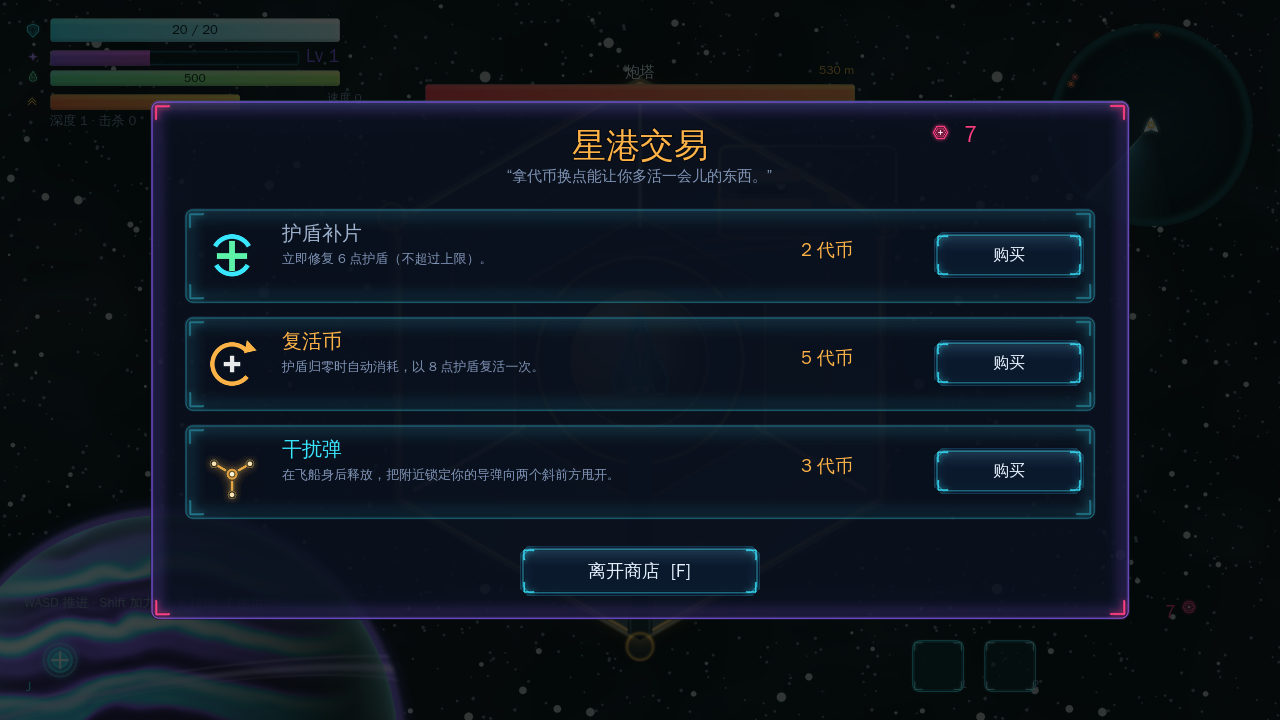
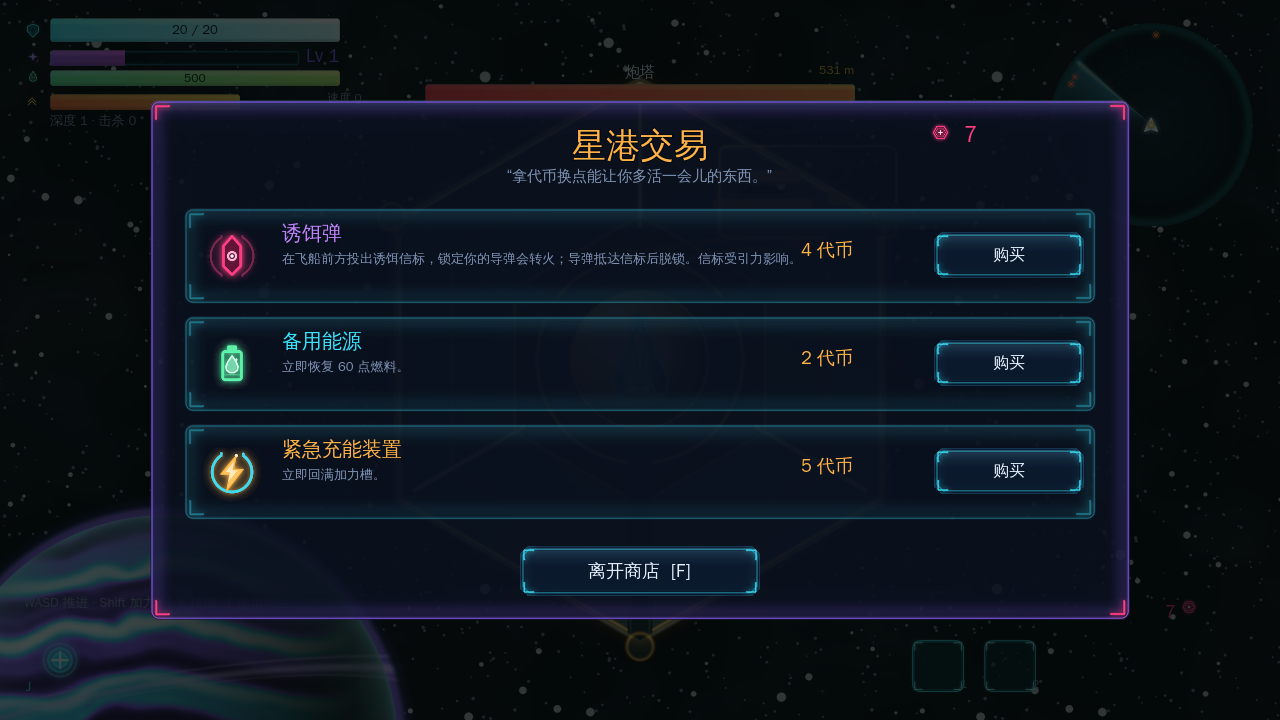
docs(1.2.0): 记录升级池修正并重跑 181 项自测与截图
- README 1.2.0 更新日志补充两处升级池修正
- DESIGN_MAP 升级池行说明零权重卡不进卡池、扩建只看栏位上限
- AGENTS 增加“升级池只出有效卡”不变量，自测数 177 -> 181
- QA 更新日期与计数，重导出 Linux/Windows 并重生成截图
- docs/selftest_output.txt 与 12 张截图来自新导出包

diff --git a/docs/QA.md b/docs/QA.md
@@ -1,6 +1,6 @@
 # QA / 验证记录
 
-日期：2026-11-18 · 版本：1.2.0 · 引擎：Godot 4.7.2 stable
+日期：2026-11-21 · 版本：1.2.0 · 引擎：Godot 4.7.2 stable
 环境：Linux x86_64 · Godot headless + Xvfb/llvmpipe · JDK 17 (Temurin 17.0.21) · Android SDK build-tools 35 / platform 35
 
 ---
@@ -11,17 +11,17 @@
 godot --headless --path . -- --selftest
 ```
 
-完整输出：`docs/selftest_output.txt`（177 项断言 + 机器人明细）。
+完整输出：`docs/selftest_output.txt`（181 项断言 + 机器人明细）。
 
 ```
-RESULT: 177 checks, 0 failed
+RESULT: 181 checks, 0 failed
 ```
 
 **导出包内自测**（同一套脚本，从内嵌 PCK 运行）：
 
 ```bash
 ./build/linux/EscapeGravity.x86_64 --headless -- --selftest
-# RESULT: 177 checks, 0 failed
+# RESULT: 181 checks, 0 failed
 ```
 
 覆盖面：
@@ -38,7 +38,7 @@ RESULT: 177 checks, 0 failed
 - 修整区刷新（`_test_rest_zone_refresh`，1.1.0 新增 14 项断言）：敌前没有修整区 / 空场 30s 不会有倒计时刷新 / 击杀后安全区与商店**立即**刷新且互不重叠 / 离开安全区不启动倒计时、离开 20s 仍无 / 商店内击杀挂起并在离开时补刷 / 安全区内击杀挂起并在离开时补刷
 - 商店绑定：每次击败敌人都会把商店立即刷新到下一段路线商店点（游标至少推进到当前深度）并绑定新深度，不再有 26s 重开与“跨过所属敌人”的单独重定位
 - 发现：敌人未进屏前不可见、不进雷达/方位/血条、仇恨范围外不开火；玩家进入 2100px 后主动逼近并持续开火；未发现时导弹从屏幕外生成、以切线弧线切入、方向 72% 偏向敌人 ±57°，偷袭弹单独上限 2 且不占直射名额；进屏同一帧 `discovered` 并淡入
-- 物品/升级：2 格、满栏销毁、5 格上限后无栏位卡、技能满后无新技能卡；游玩中升级只累积 `pending_levels`、不弹面板，进入安全区才开面板，停靠期间新攒的等级立即补开
+- 物品/升级：2 格、满栏销毁、5 格上限后无栏位卡、技能满后无新技能卡；游玩中升级只累积 `pending_levels`、不弹面板，进入安全区才开面板，停靠期间新攒的等级立即补开；安全区进站即补满燃料，满油时不再出燃料卡（权重 0），燃料不足时仍出；物品栏扩建只看栏位是否还能扩——2 格背包装满时同样能抽到，背包没满也能抽到
 - 撞击：撞敌人为同速天体的 1.5 倍、伤害随速度升高、撞敌人与撞天体单次都封顶 5、法线速度低于 40 不掉护盾
 - 技能：脉冲 10 燃料 / 200 冲量 / 脱锁 / 5s CD / 按移动方向左右偏转（静止按面向）；诱饵抵达脱锁；干扰弹偏转
 - 自杀无人机（`_test_drones`，1.2.0 新增 23 项断言）：成对刷新、屏幕外入场、锁定额度 6、满额停刷、速度 460 + 低转向率、视野内有安全区/商店时停刷、撞玩家 5 伤害并当场解体、近身掠过后被甩开且永久脱锁、脱锁不占锁定名额、5 秒锁定上限、撞敌人 5 伤害后解体、安全区驱离圈推开、贴本体解体、脉冲原地解体、刷新计时器接线
@@ -68,7 +68,7 @@ RESULT: 177 checks, 0 failed
 
 ## 2. 导出包验证
 
-> 本次 **1.2.0** 重跑了源码自测（177/177），重新导出 Linux 与 Windows 可执行文件（Linux 包内自测通过、重新生成截图）；
+> **1.2.0**（2026-11-18 首验，2026-11-21 修复升级池后重跑）：源码自测 181/181，重新导出 Linux 与 Windows 可执行文件（Linux 包内自测通过、重新生成截图）；
 > **dist 发行包与 Android 包未重建、未上传**（下方 Android 记录为 1.0.9 实测；Windows 段同时列出 1.2.0 本地导出验证与 1.0.9 发行包记录）。
 
 ### 2.1 Linux（验证打包完整性）
@@ -80,7 +80,7 @@ xvfb-run -a -s "-screen 0 1280x720x24" \
 
 - 1.2.0 源码重新导出后在 Xvfb + llvmpipe 下真实运行，退出码 0；11 张截图全部重新生成（**由导出包运行产生，不是编辑器**），已复制到 `docs/shots/`。战斗截图额外摆出两架紫/品红自杀无人机，便于核对新敌人与橙红导弹的颜色区分及雷达点。
 - 标题、中文字体、贴图、音频、脚本均从内嵌 PCK 加载；无缺失贴图警告。
-- `build/linux/EscapeGravity.x86_64` = 96,370,352 bytes，ELF x86-64（1.2.0 导出）。
+- `build/linux/EscapeGravity.x86_64` = 96,370,960 bytes，ELF x86-64（1.2.0 导出）。
 - 触屏 20:9 截图另用 `--resolution 2400x1080 -- --touch --shots=...` 生成，取 `04_battle` 作为 `docs/shots/12_touch.png`。
 
 ### 2.2 Windows（1.2.0 本地导出验证；1.0.9 发行包记录）
@@ -93,7 +93,7 @@ file build/windows/EscapeGravity.exe
 python3 -c "d=open(...).read(); print(b'GDPC' in d[-4096:])"   # True
 ```
 
-- 1.2.0 本地导出：132,054,400 bytes，PE32+ x86-64，尾部 `GDPC` 校验通过；单文件、内嵌 PCK，无外部依赖。
+- 1.2.0 本地导出：132,055,008 bytes，PE32+ x86-64，尾部 `GDPC` 校验通过；单文件、内嵌 PCK，无外部依赖。
 - 1.0.9 发行包：132,039,856 bytes。
 - 未做商业代码签名（没有证书），首次运行会有 SmartScreen 提示。
 

diff --git a/AGENTS.md b/AGENTS.md
@@ -112,6 +112,7 @@ escape-gravity-release/
 - **环绕加速**：`BODY_GRAVITY_RANGE=3`（原 2）；`assist_accel` 在贴体 320px 内沿切线加速，速度 600 处淡出；离开引力圈后速度保留。安全区停靠反推上限 `SHIP_SAFE_BRAKE=1400`，以 600~720 进站要能在 R280 内停住；只有明确朝圈外推进时才放手。
 - **天体与内容双向避让**：新天体落点用 `Galaxy.body_fits()` 检查已加载天体、当前飞船、安全区/商店/敌人和**全部路线预置节点**；安全区/商店/敌人刷新用 `_clear_body_point()` 的 18 圈 × 24 方向环形搜索，安全区按完整 R280、敌人按外壳、天体按表面 + `BODY_CONTENT_MARGIN=160` 留白。别再把 `_clear_body_point` 的 clearance 传成 90/120。
 - **升级只在安全区结算**：`on_matter_collected` 打满经验只累加 `pending_levels` 并提示“待升级 ×N”，**不要**在游玩中调用 `begin_levelup`；`_enter_safe` 里才把攒下的次数逐张弹出。停靠期间继续吸物质攒出的新等级也应立刻弹面板。
+- **升级池只出有效卡**：`Defs.roll_upgrades` 里权重 ≤0 的卡一律不进卡池（满油时的 `fuel_25`、5 格后的 `slot`、技能满后的 `skill_new`）。`fuel_25` 的权重按“进站已补满燃料”这个前提判断——满油给 0，只有安全区停留期间又烧掉燃料才给 12；`slot` 的条件是 `item_slots < ITEM_SLOTS_MAX`（不是 `inventory.size() < item_slots`，那样背包一满就永远刷不出扩建），背包满时权重 10、未满 6。
 - **撞击伤害按速度**：`_resolve_collisions` 用 `ship.bounce_from()` 返回的法线冲击速度，经 `collision_damage()` 把 40~380 px/s 映射到 **0.5~5**；撞敌人 ×1.5，撞敌人与撞天体的最终值都封顶 **5**。擦边（法线速度 <40）不掉血。别退回固定 3~7 的 remap。
 - **自杀无人机（1.2.0）**：`drone.gd` 独立于 `enemies` 数组；460 px/s / 0.22 rad/s（转弯半径约 2090），撞玩家/敌人各 5 伤害并**当场解体**。大转弯半径下玩家靠机动甩开：锁定最多 5s，近身进入 240px 后开始远离立即 `_lose_lock`，`locked=false` 永久生效、不再追踪，残骸直线飞 8s 后消失。`_update_spawns` 每 8s 成对刷新，**玩家视野内有安全区/商店时暂停**，锁定上限 6；`Drone._zone_ward` 用 320px 驱离圈推离、进入区域本体即解体；`_cast_pulse` 范围内直接解体。不要把它并进 `enemies`，否则会破坏主敌人的发现/血条/计数。
 - **平衡**：初始燃料 **500**；推进 4/s、加力 **4.8/s（1.2×）**（均按实际 Δv），3× 推力，引擎极速 150 / 加力 192，初始槽 **6.6s**；护盾 20。
@@ -160,7 +161,7 @@ python3 tools/make_dist.py --platforms windows,linux
 
 改动运行逻辑后，至少完成：
 
-1. `RESULT: 177 checks, 0 failed`；导出包内再跑一次 `./build/linux/EscapeGravity.x86_64 --headless -- --selftest`。
+1. `RESULT: 181 checks, 0 failed`；导出包内再跑一次 `./build/linux/EscapeGravity.x86_64 --headless -- --selftest`。
 2. 用导出包重新生成截图；桌面 11 张 + 移动端 20:9 一张，检查标题居中、触屏按钮不重叠。
 3. 无运行时绘制审计（应只有 `RenderingServer.frame_post_draw` 一条命中）：
    ```bash

diff --git a/README.md b/README.md
@@ -20,6 +20,7 @@
 - **刷新规则**：玩家视野内没有安全区或商店时才会刷新；每 **8 秒**成对刷新 **2 架**，锁定玩家的无人机总数上限 **6 架**；视野内出现修整区时暂停刷新并每秒重试。
 - **修整区克制**：安全区/商店的驱离圈会把无人机强行推离，贴到区域本体则当场解体；**脉冲技能**范围内的无人机直接原地解体。
 - 无人机改用**紫/品红**机身与宽三角翼，和橙红色导弹明显区分；雷达上显示为威胁点，战斗截图与自测同步更新。
+- **升级池两处修正**：安全区进站瞬间就把燃料补满，所以满油时“补充燃料（恢复 25%）”成了一张零收益废卡——现在满油直接不给（权重 0，不会进卡池），只有在安全区里又烧掉燃料后才重新出现；物品栏扩建卡的判定也改回“栏位还能不能再扩”（原先误写成 `inventory.size() < item_slots`，导致 2 格背包一装满、玩家最需要扩格时反而永远刷不出），并且背包满时权重更高（10 对 6）。
 
 ### 1.1.0 更新
 
@@ -109,7 +110,7 @@ escape-gravity-release/
 │   ├── meteor.gd / matter.gd / zone.gd / decoy.gd / anchor.gd / fx.gd
 │   ├── assets.gd / audio.gd / store.gd / controls.gd
 │   ├── backdrop.gd           # 视差星云/星点
-│   └── selftest.gd           # 177 项无头断言 + 机器人可玩性验证
+│   └── selftest.gd           # 181 项无头断言 + 机器人可玩性验证
 ├── assets/                   # world / ui / audio / fonts
 ├── tools/                    # 素材生成、后期、构建、打包
 ├── docs/                     # ART.md / DESIGN_MAP.md / QA.md / 资产清单 / 截图
@@ -132,7 +133,7 @@ escape-gravity-release/
 
 ```bash
 godot --headless --path . -- --selftest
-# RESULT: 177 checks, 0 failed
+# RESULT: 181 checks, 0 failed
 ```
 
 ### 界面

diff --git a/docs/DESIGN_MAP.md b/docs/DESIGN_MAP.md
@@ -85,7 +85,7 @@
 | 吸取半径 | 260 | `run.absorb_radius=260`；进入即锁定 5s，并以 1200 px/s 直接追向飞船，40px 内拾取 |
 | XP | 小 1 / 大 3 | `MATTER_SMALL_XP/ BIG_XP`；大物质概率 1/3 |
 | 升级曲线 | 固定每 20 XP | `XP_PER_LEVEL=20`；游玩中只累积 `pending_levels`，进入安全区才逐次弹卡（`_enter_safe` → `begin_levelup`） |
-| 升级池 | 修复 25%/100%、燃料 25%、上限 +10/+20、物品栏、代币 1/2/3、加力槽 +10%、加力推力 +7%、获得道具、技能 | `Defs.roll_upgrades` 带权抽取，按条件剔除（如 5 格后不再出物品栏卡、技能满后不再出新技能） |
+| 升级池 | 修复 25%/100%、燃料 25%、上限 +10/+20、物品栏、代币 1/2/3、加力槽 +10%、加力推力 +7%、获得道具、技能 | `Defs.roll_upgrades` 带权抽取，按条件剔除且**零权重卡不进卡池**：满油时不出燃料卡（安全区进站即补满）、5 格后不出物品栏卡、技能满后不出新技能；物品栏扩建只看 `item_slots < ITEM_SLOTS_MAX`，背包满时权重更高（10 对 6） |
 
 ## 6. 护盾 / 陨石
 
